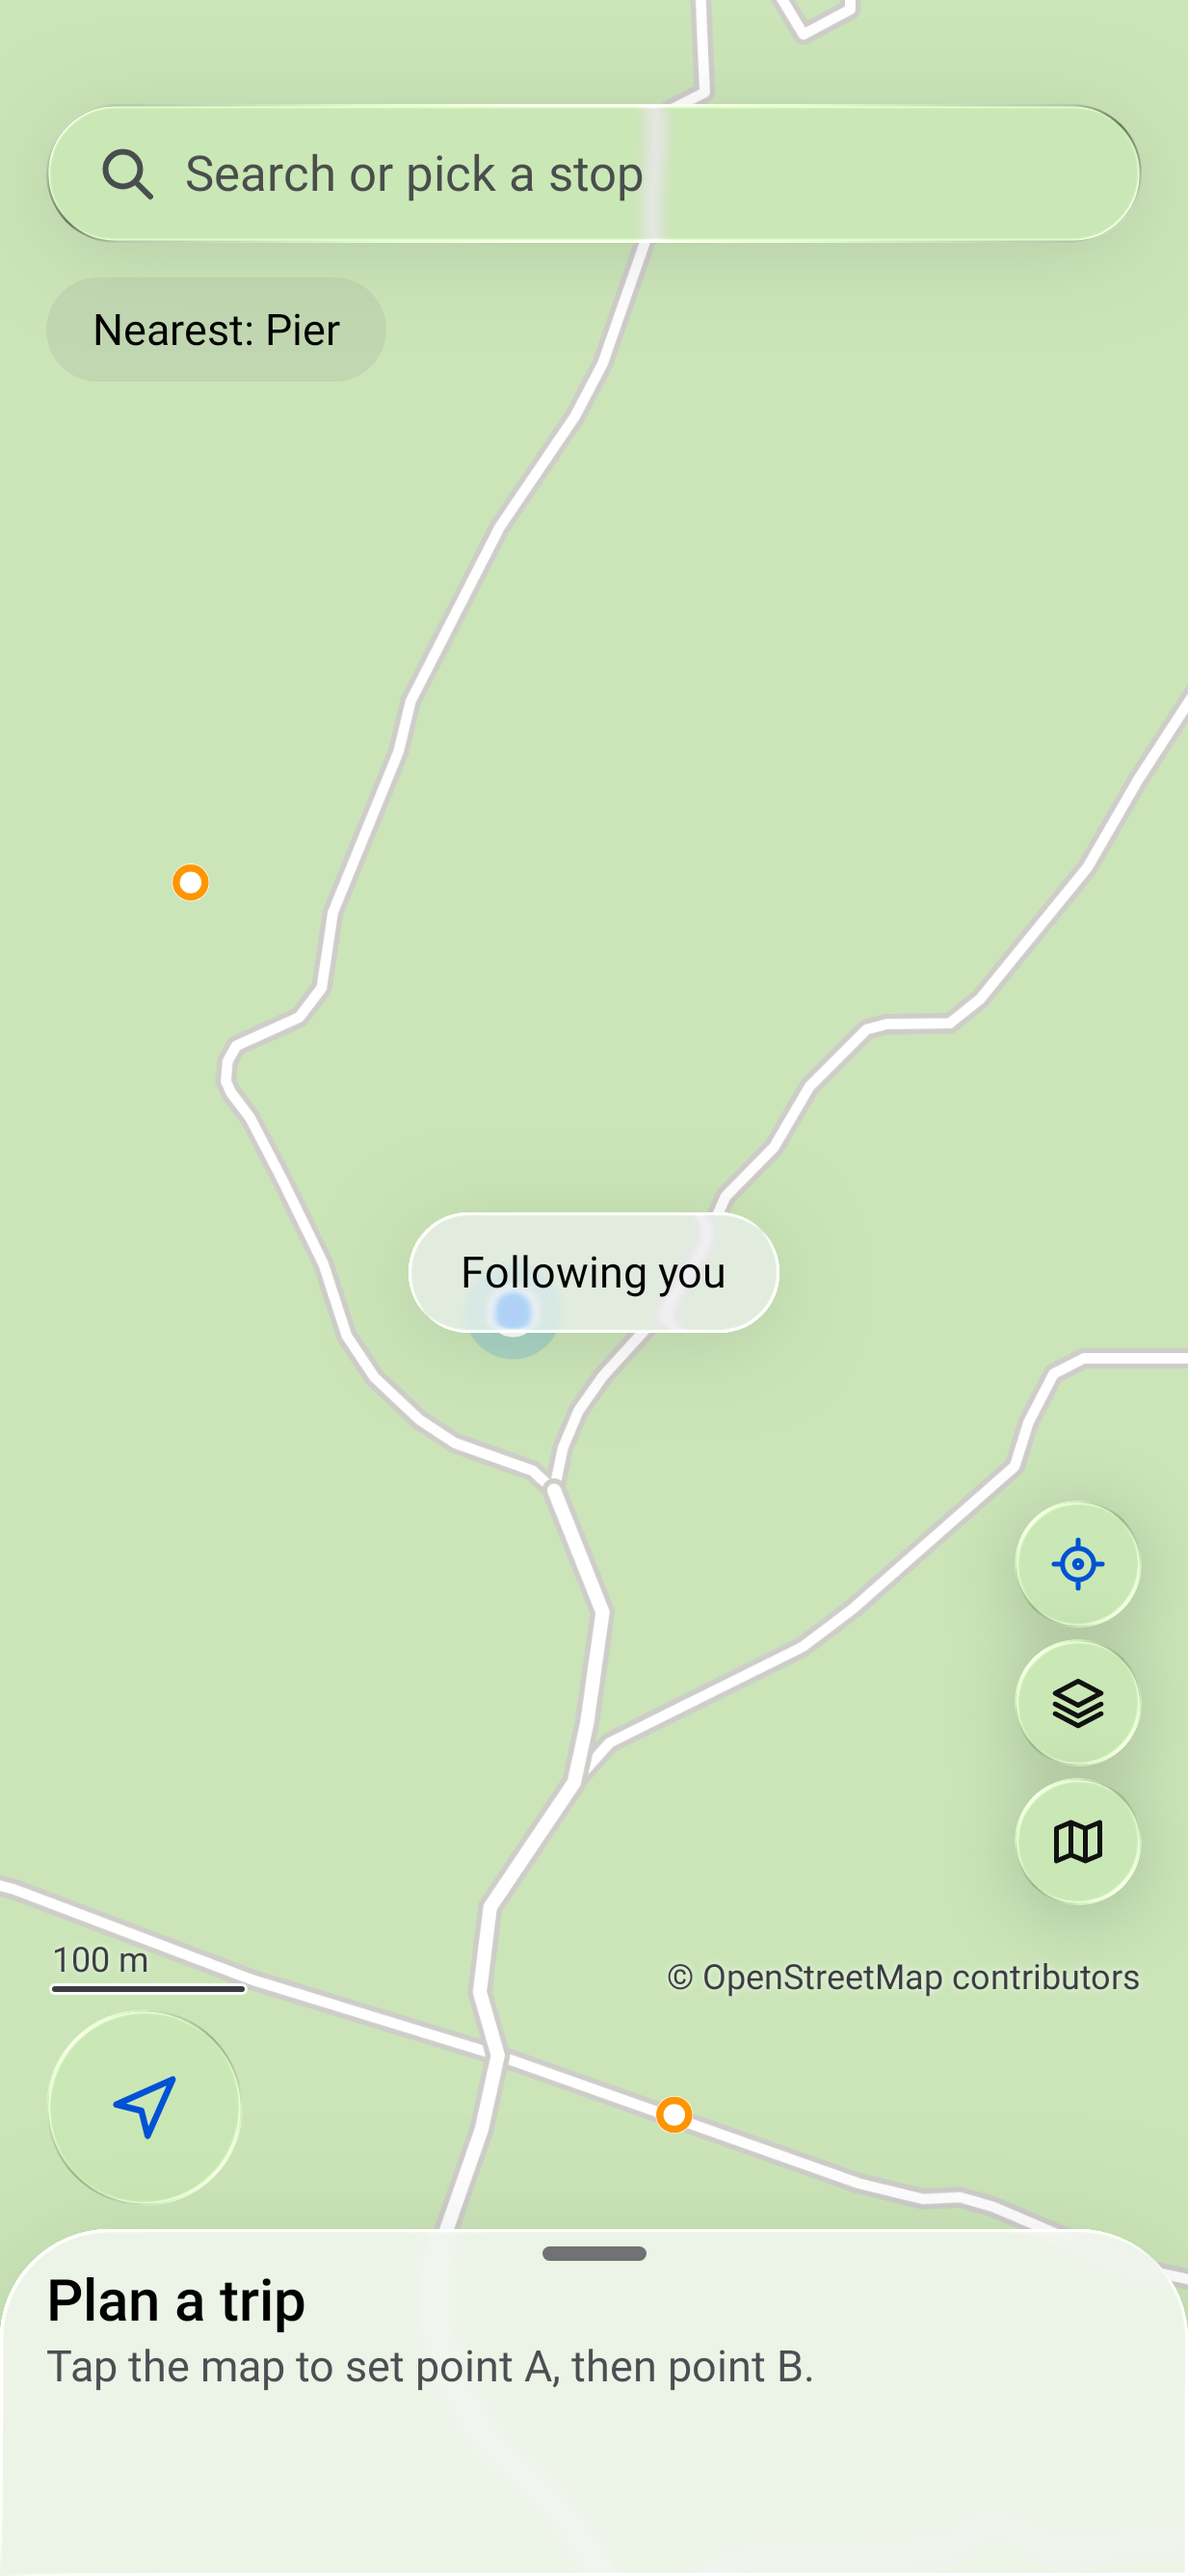
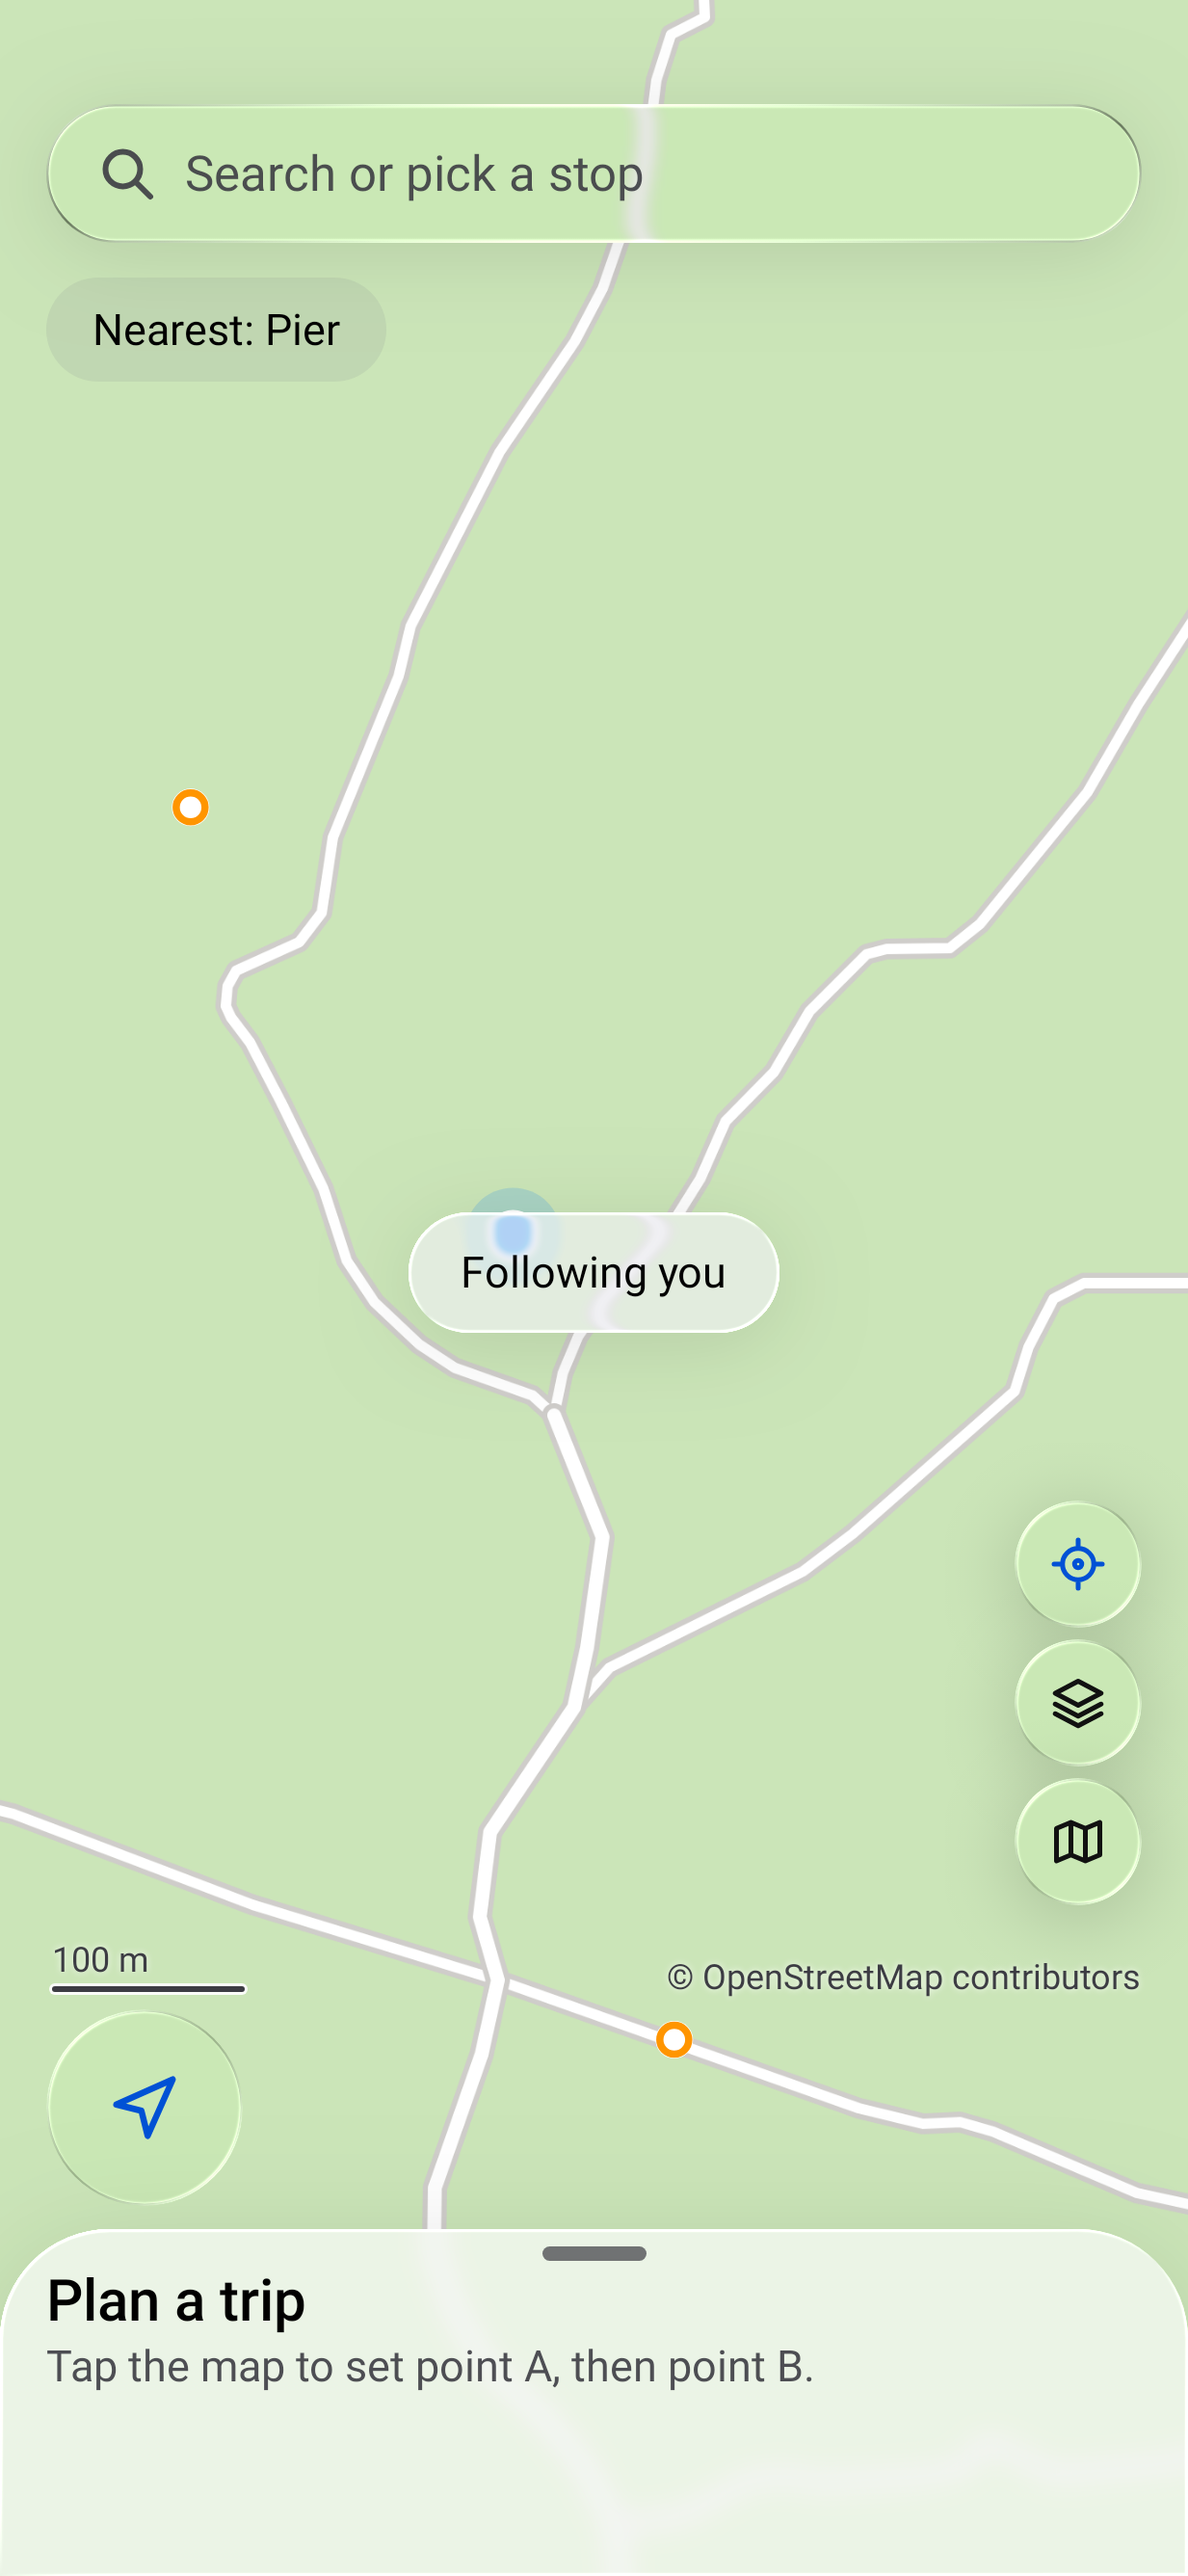
Stops: steady first view and goldens in a full run
The camera's top padding is the search pill's bottom only: the hint and
the chip row under it arrive with answers from the core, and the first
view depended on which came first, so a full test run placed the map a
chip row lower than a single test did. Goldens re-recorded in one full
run. The E7.1 shots settle with real waits (a busy run caught the tiles
unloaded); SavedViewModelTest lists again after dropping the position.

Claude-Session: https://claude.ai/code/session_011osUp9MCesspyDRaLRPJDZ

diff --git a/android/stops/src/main/kotlin/dev/rosty/stops/home/HomeScreen.kt b/android/stops/src/main/kotlin/dev/rosty/stops/home/HomeScreen.kt
@@ -248,7 +248,6 @@ fun StopsHome(
                             ).padding(top = Spacing.s)
                             .widthIn(max = Sizes.contentMaxWidth)
                             .fillMaxWidth()
-                            .onGloballyPositioned { topChromeBottomPx = it.boundsInRoot().bottom }
                             .graphicsLayer {
                                 // Hidden under a large map sheet and under a modal sheet's push-back (read in draw).
                                 val sheet = entry.sheet
@@ -257,7 +256,14 @@ fun StopsHome(
                             }.then(if (topHidden) Modifier.clearAndSetSemantics {}.blockTouches() else Modifier)
                             .testTag(HomeTags.Top),
                     ) {
-                        SearchPill(actions.onSearch, Modifier.padding(horizontal = Spacing.gutter))
+                        // The camera clears the search pill only: the hint and the chips below it come and go with
+                        // answers from the core, and the first view must not depend on which came first.
+                        SearchPill(
+                            actions.onSearch,
+                            Modifier
+                                .padding(horizontal = Spacing.gutter)
+                                .onGloballyPositioned { topChromeBottomPx = it.boundsInRoot().bottom },
+                        )
                         if (topCard != null) {
                             Spacer(Modifier.height(Spacing.s))
                             Box(Modifier.padding(horizontal = Spacing.gutter)) { topCard() }

diff --git a/android/stops/src/test/kotlin/dev/rosty/stops/E71ShotTest.kt b/android/stops/src/test/kotlin/dev/rosty/stops/E71ShotTest.kt
@@ -14,6 +14,7 @@ import androidx.compose.ui.test.runAndroidComposeUiTest
 import com.github.takahirom.roborazzi.RoborazziOptions
 import com.github.takahirom.roborazzi.captureRoboImage
 import dev.rosty.design.theme.RostyTheme
+import dev.rosty.stops.saved.settleRust
 import dev.rosty.testing.ShotTest
 import org.junit.Test
 import org.robolectric.RuntimeEnvironment
@@ -46,7 +47,8 @@ class E71ShotTest : ShotTest() {
     ) {
         for (dark in listOf(false, true)) {
             composeFrame(dark = dark, fontScale = fontScale, content = content)
-            run(1500)
+            // Real waits between the steps: the tiles load on their own threads (a busy run caught them unloaded).
+            settleRust(1500)
             before()
             compose.onRoot().captureRoboImage("screenshots/$name-${if (dark) "dark" else "light"}.png", options)
         }

diff --git a/android/stops/src/test/kotlin/dev/rosty/stops/saved/SavedViewModelTest.kt b/android/stops/src/test/kotlin/dev/rosty/stops/saved/SavedViewModelTest.kt
@@ -54,7 +54,9 @@ class SavedViewModelTest {
 
     @Test fun noPositionNoDistance() {
         here = null
-        val state = settled { it.rows.size == 2 }
+        // The model may have listed once with the old position before the line above: list again.
+        model.refresh()
+        val state = settled { it.rows.size == 2 && it.nearest == null }
         assertTrue(state.rows.all { it.distance == null })
     }
 
